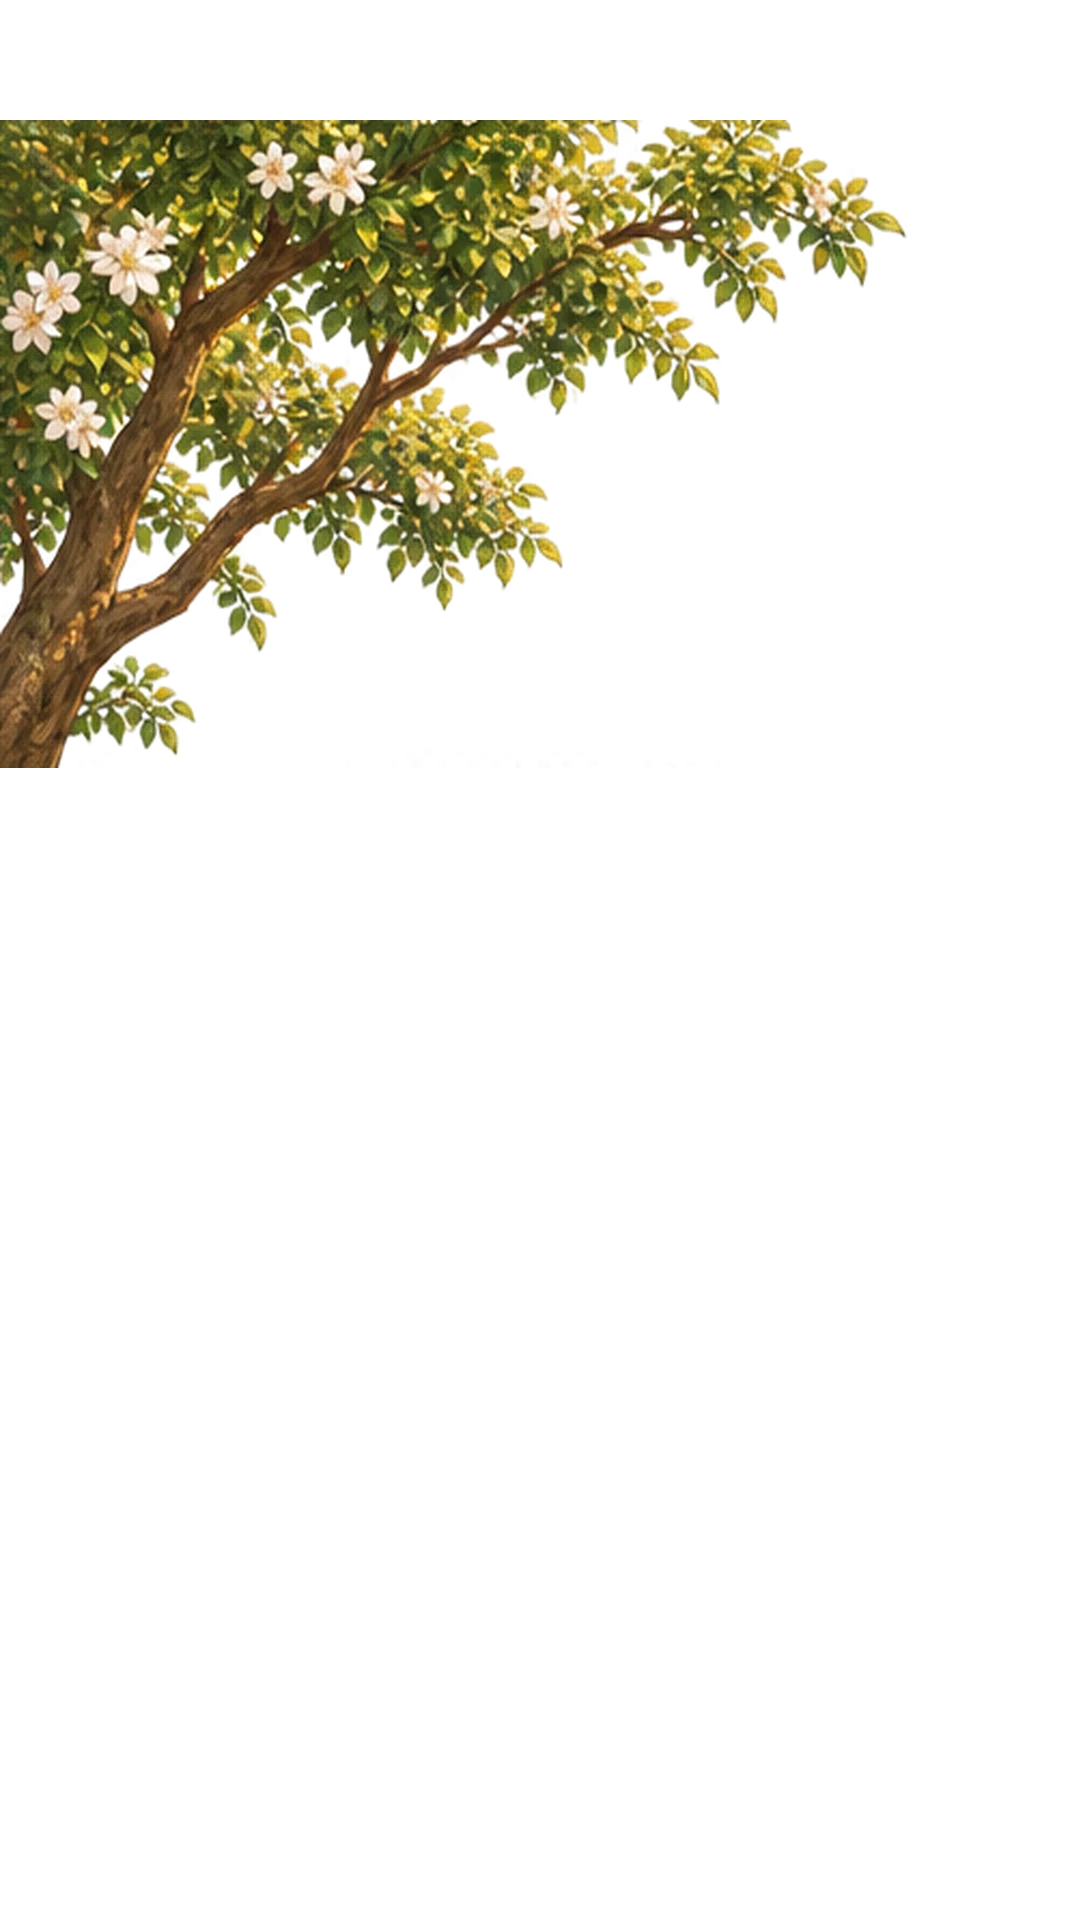
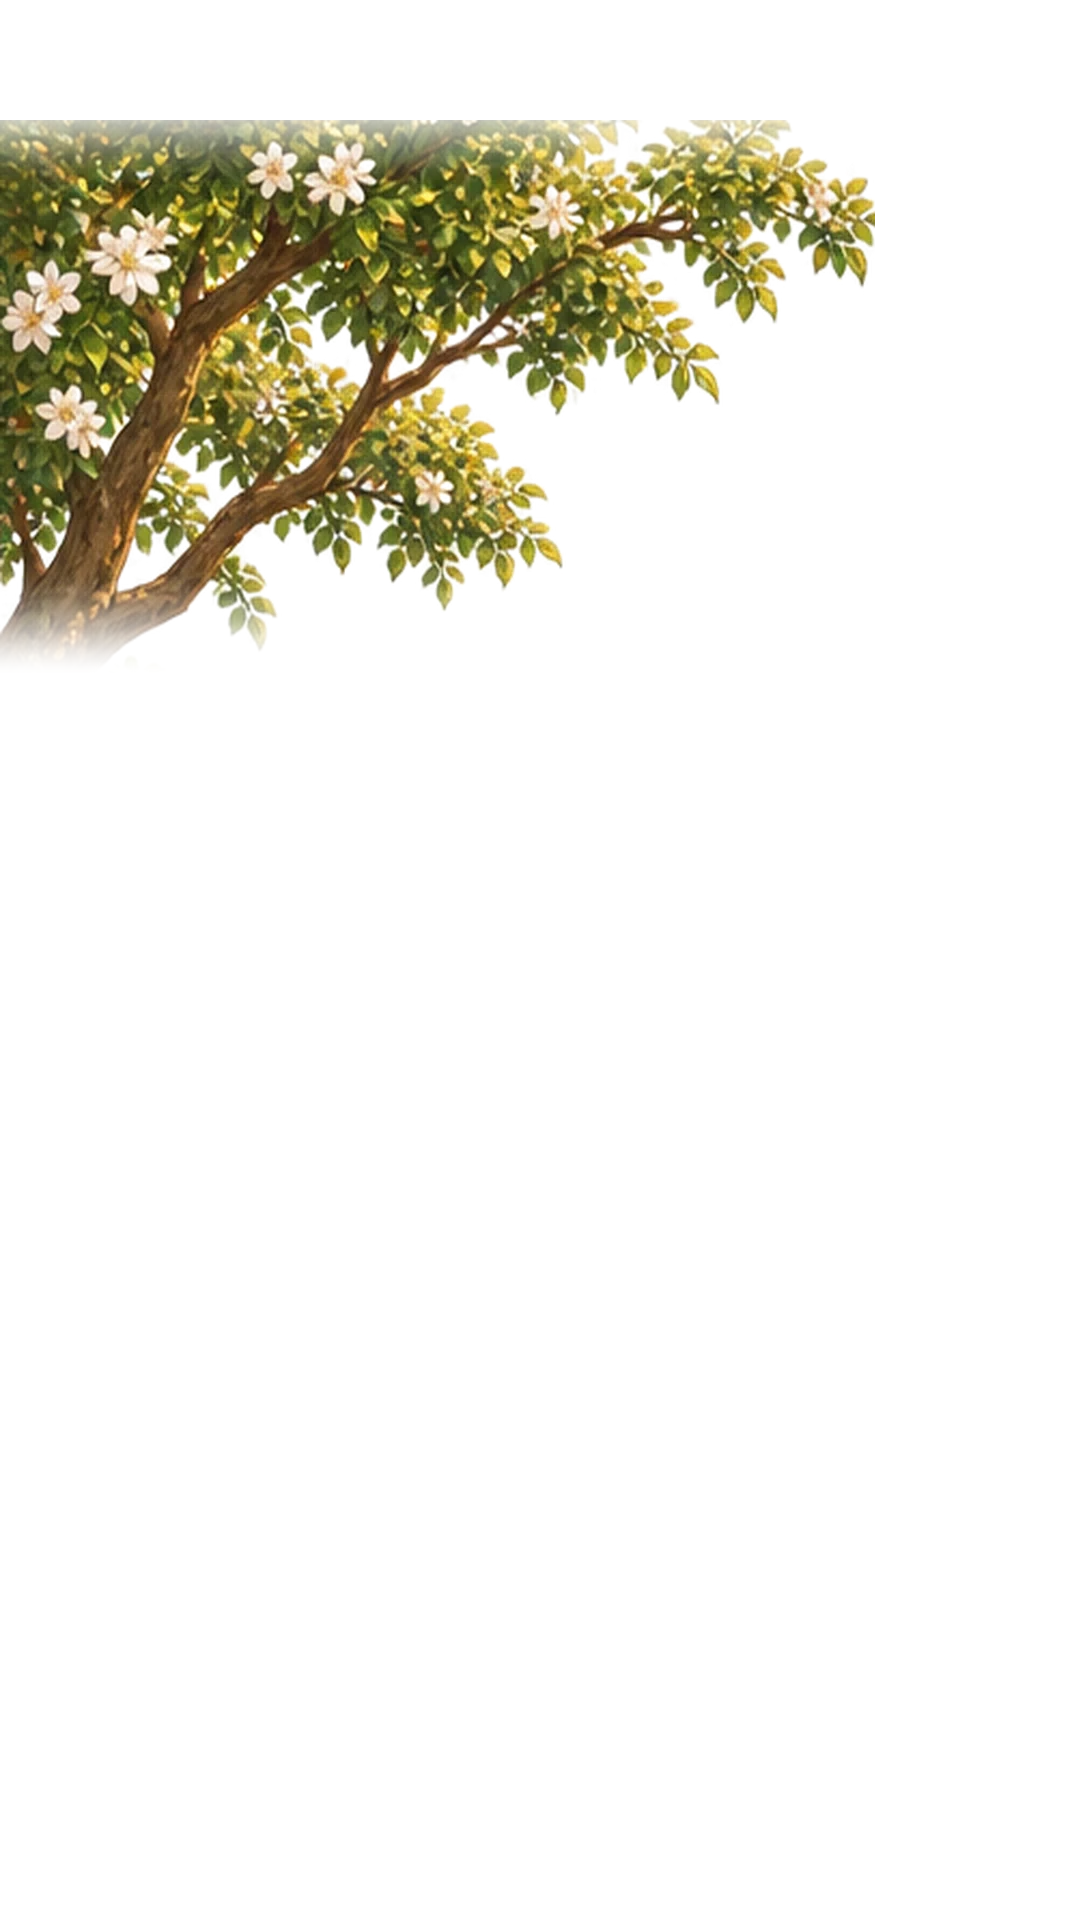
fix(myanmar): feather sharp foliage cutouts and reduce tree asset sizes

diff --git a/tools/refine-myanmar-trees.py b/tools/refine-myanmar-trees.py
@@ -6,7 +6,6 @@ Inputs are the unchanged raw uploads on main; generated assets preserve the
 """
 from pathlib import Path
 from PIL import Image
-import base64
 
 root=Path(__file__).resolve().parents[1]
 source=root/"New folder (3)"
@@ -49,4 +48,3 @@ for name in ("tree_l.webp","tree_r.webp"):
     out=destination/name
     image.save(out,format="WEBP",quality=89,method=6)
     print(f"MYANMAR_TREE_RESULT {name} size={out.stat().st_size} dimensions={image.size}",flush=True)
-    print(f"MYANMAR_TREE_B64_{name}="+base64.b64encode(out.read_bytes()).decode("ascii"),flush=True)
